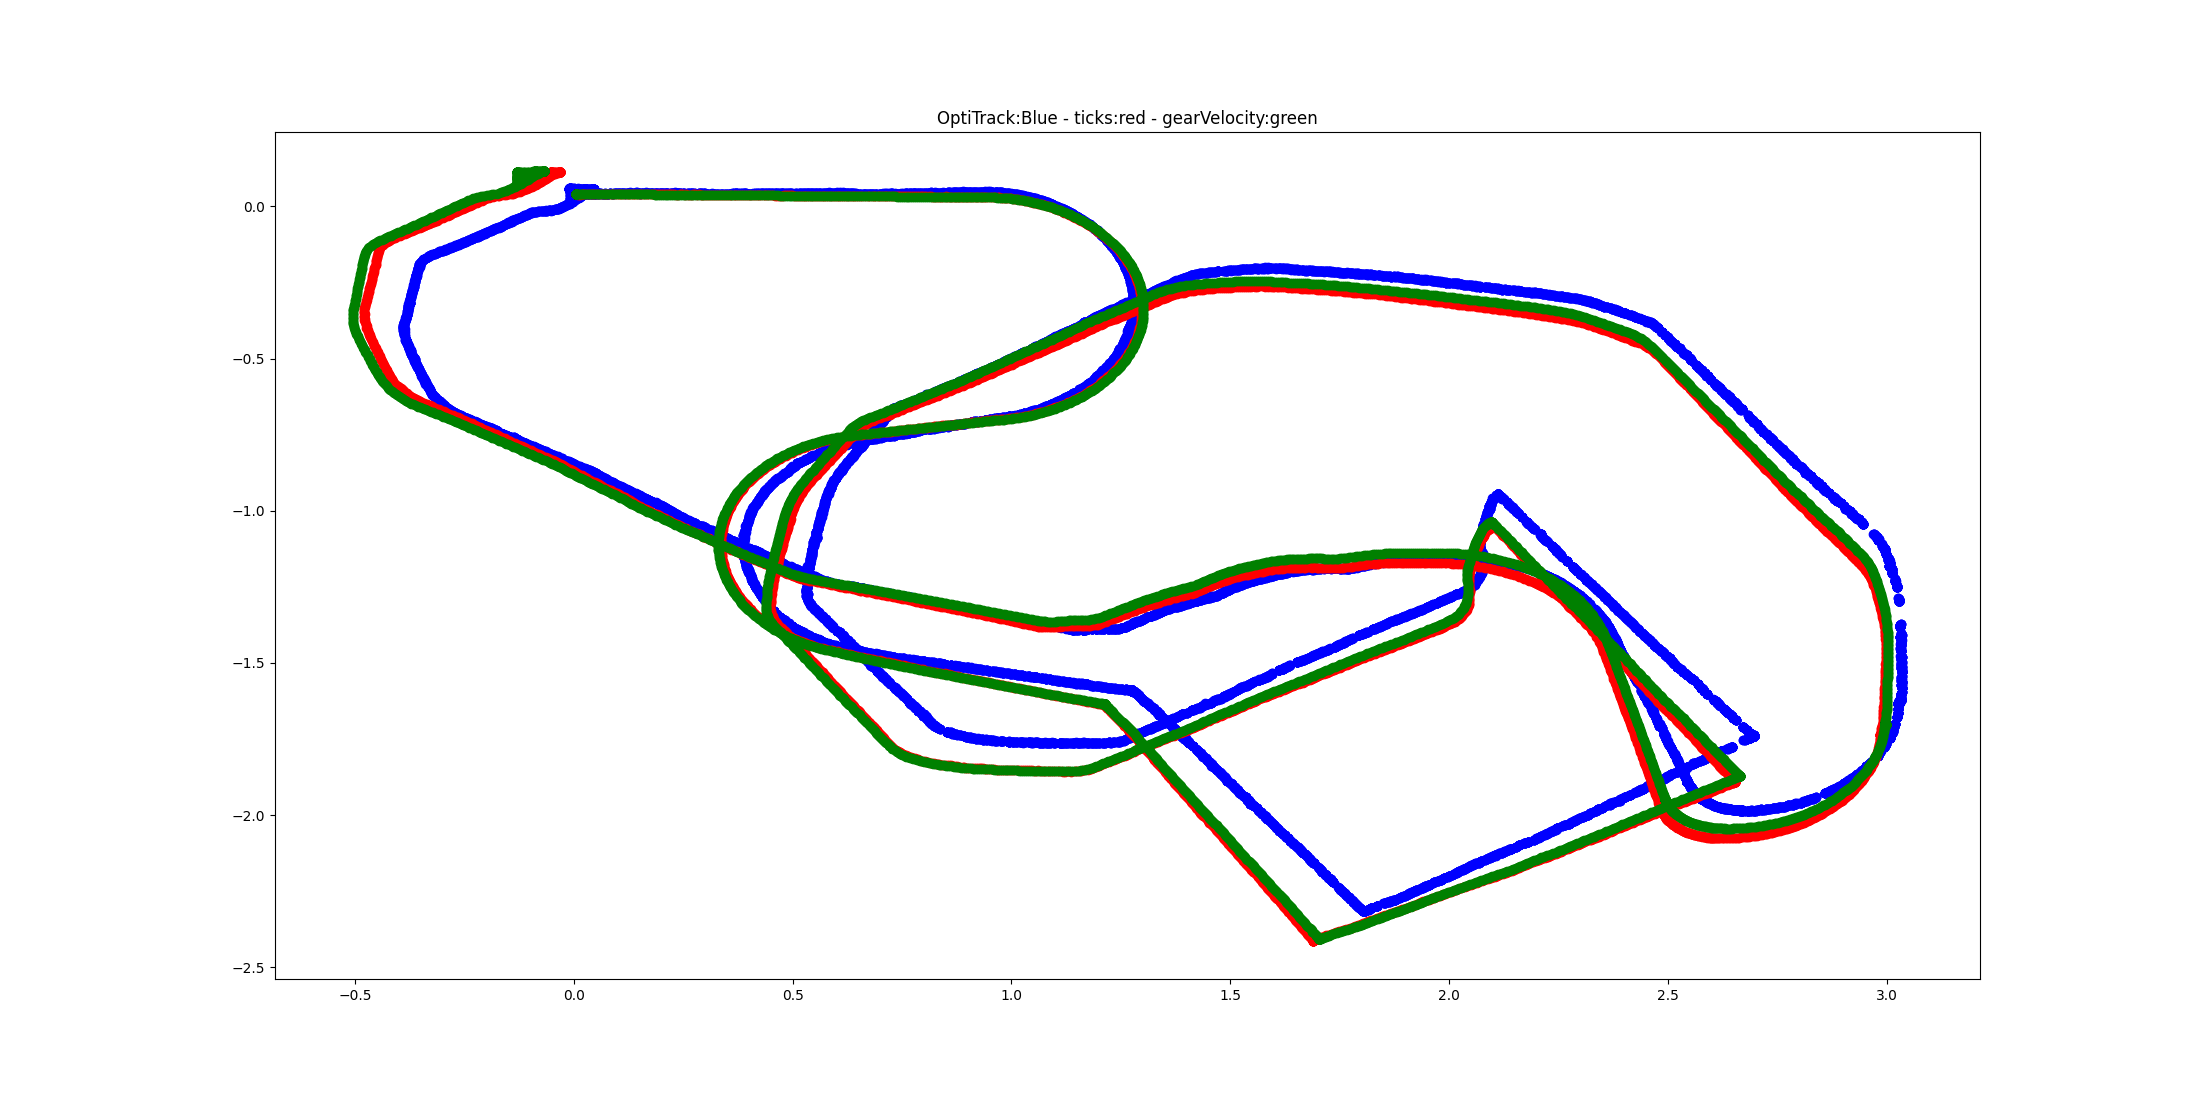
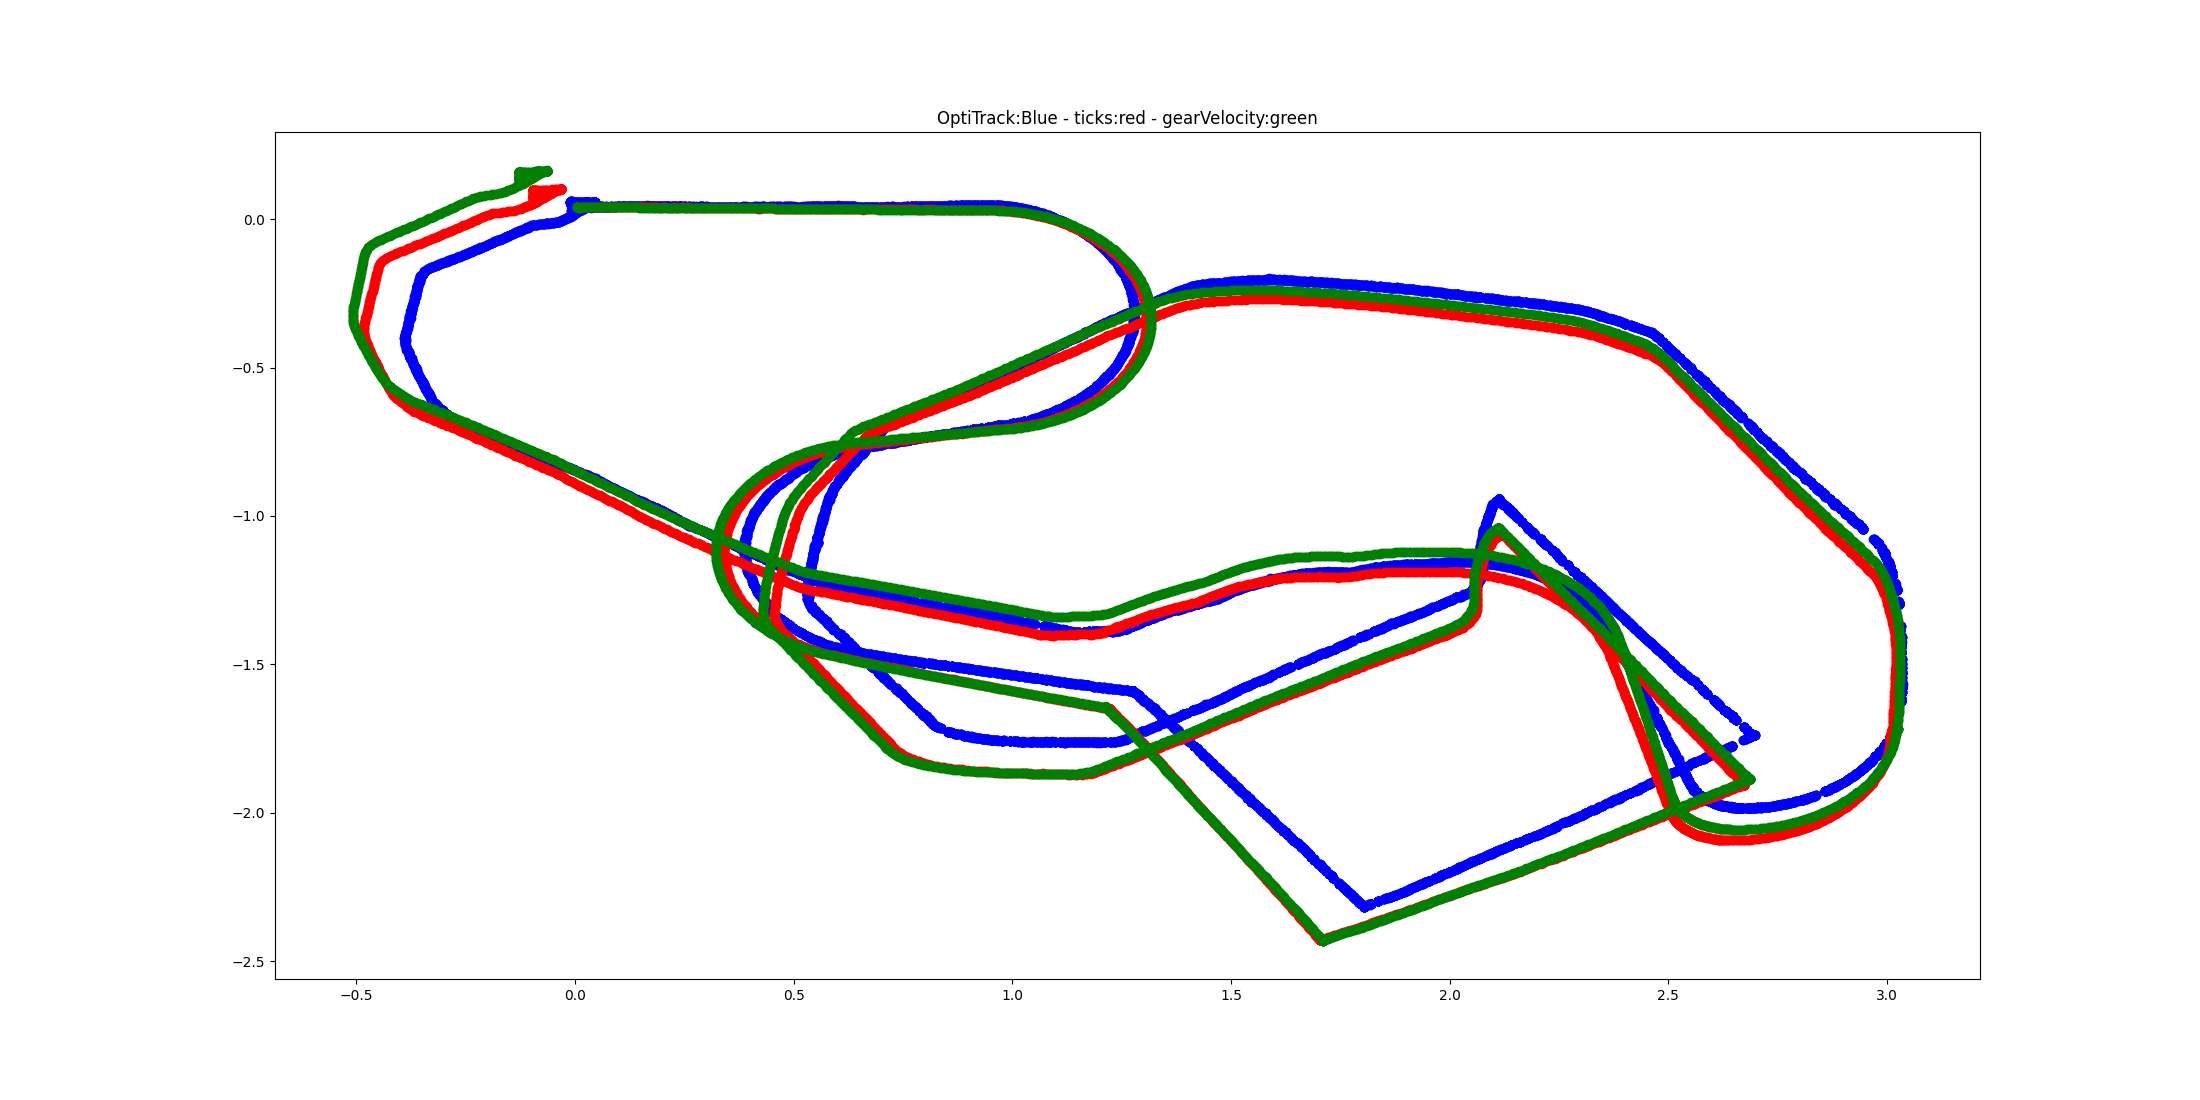
Wheel velocity fix, robot params, script, imgs updated
Wheel velocity for ticks converted to radians/second; robot parameters optimized with GA updated; GA script updated; imgs updated

Changed region(s): [[0.1545, 0.1545, 0.8655, 0.8655]]

diff --git a/src/omni_model.cpp b/src/omni_model.cpp
@@ -119,13 +119,12 @@ void omni_model::WheelStates_MessageCallback(const sensor_msgs::JointState::Cons
     for (int i = 0; i < WHEELS; i++) {
         curr_tick[i] = msg->position.at(i);
         if (USE_TICKS) {
-            // ticks to rpm (more accurate)
-            u_wheel[i] = ((curr_tick[i] - prev_tick[i]) * 60) / (dt * T * N);
-            //u_wheel[i] = u_wheel[i] / 60 / T;
-            // u_wheel[i] = (curr_tick[i] - prev_tick[i]) / (N * dt); 
-            // compute wheel revolutions per second with number of ticks on encoder, divided by total number of enc * time passed  //360 * 4096 * T;
+            // ticks to wheel angular velocity, radians/second (more accurate)
+            // compute wheel angular velocity with number of ticks on motor encoder,
+            // divided by total number of enc * time passed * gear ratio  //360 * 4096 * T;
+            u_wheel[i] = (2*3.14159265*(curr_tick[i] - prev_tick[i])) / (dt * T * N);
         } else {
-            // rpm (noisy)
+            // motor rotation (radians/minute), converted to the wheel and into rad/s - noisy
             u_wheel[i] = msg->velocity.at(i) / 60 / T; // extract motor(?) RPM, convert to rev per second, divide by gear ratio
         }
         prev_tick[i] = curr_tick[i];
